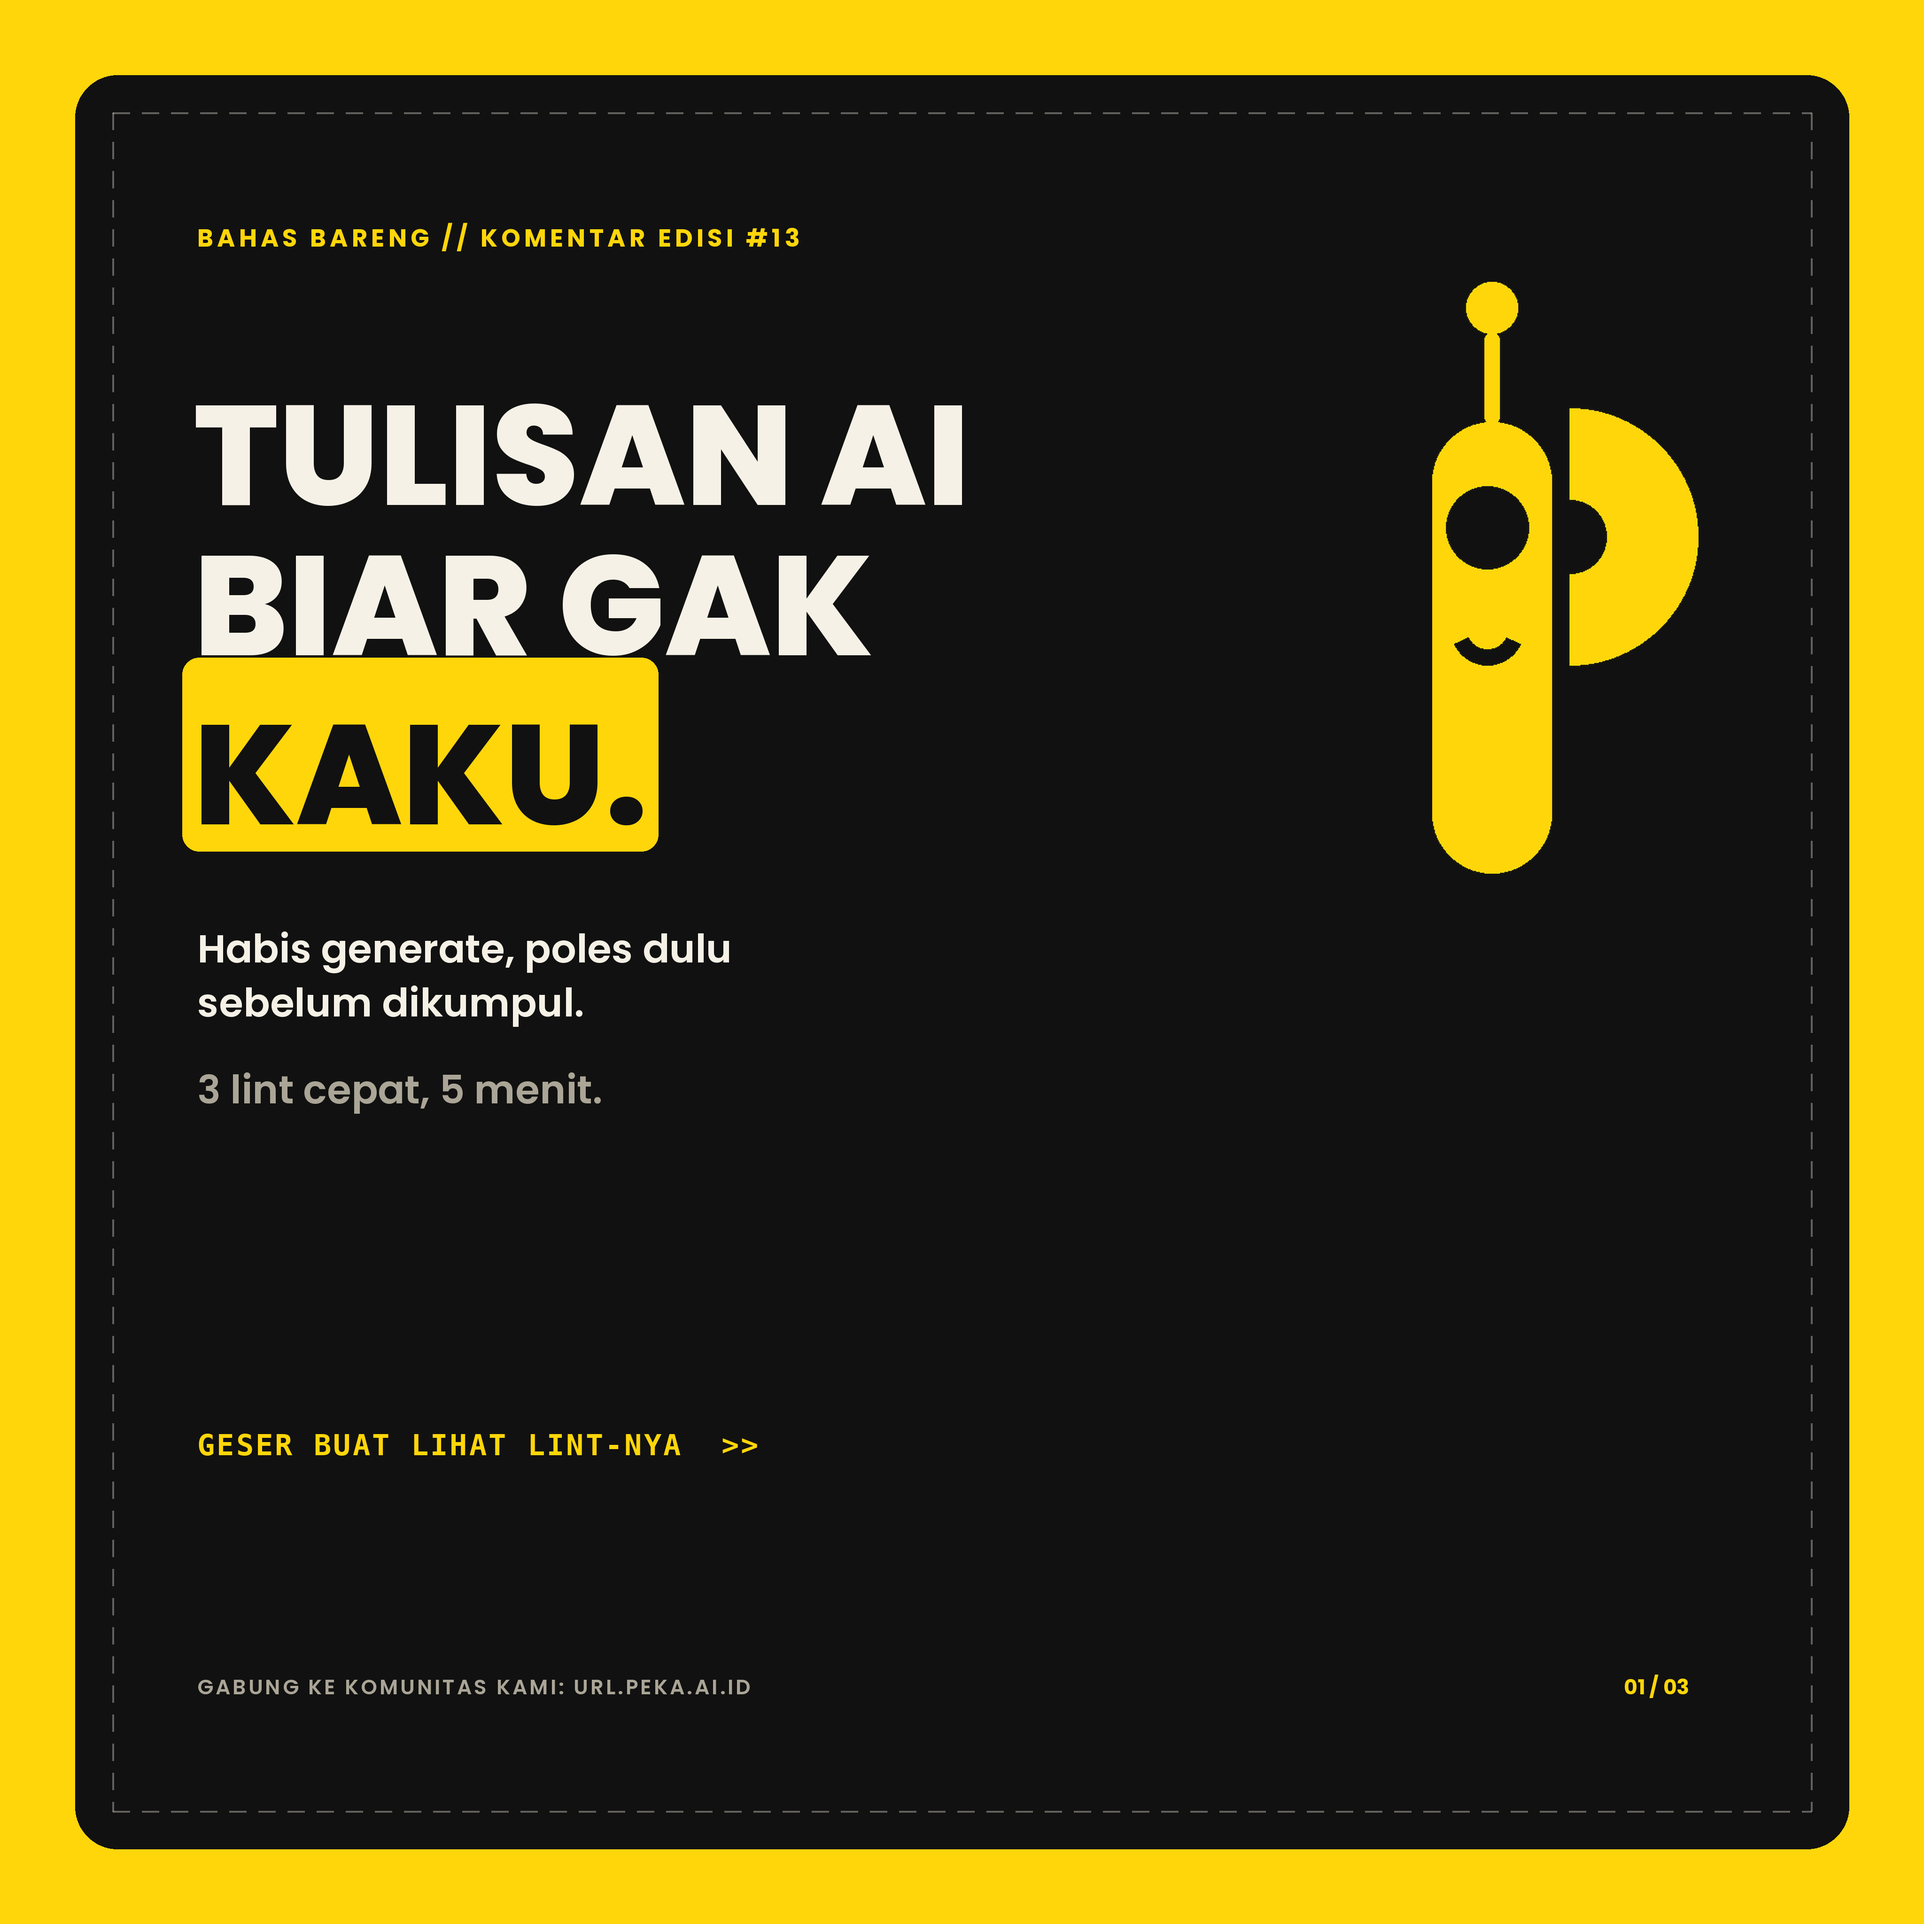
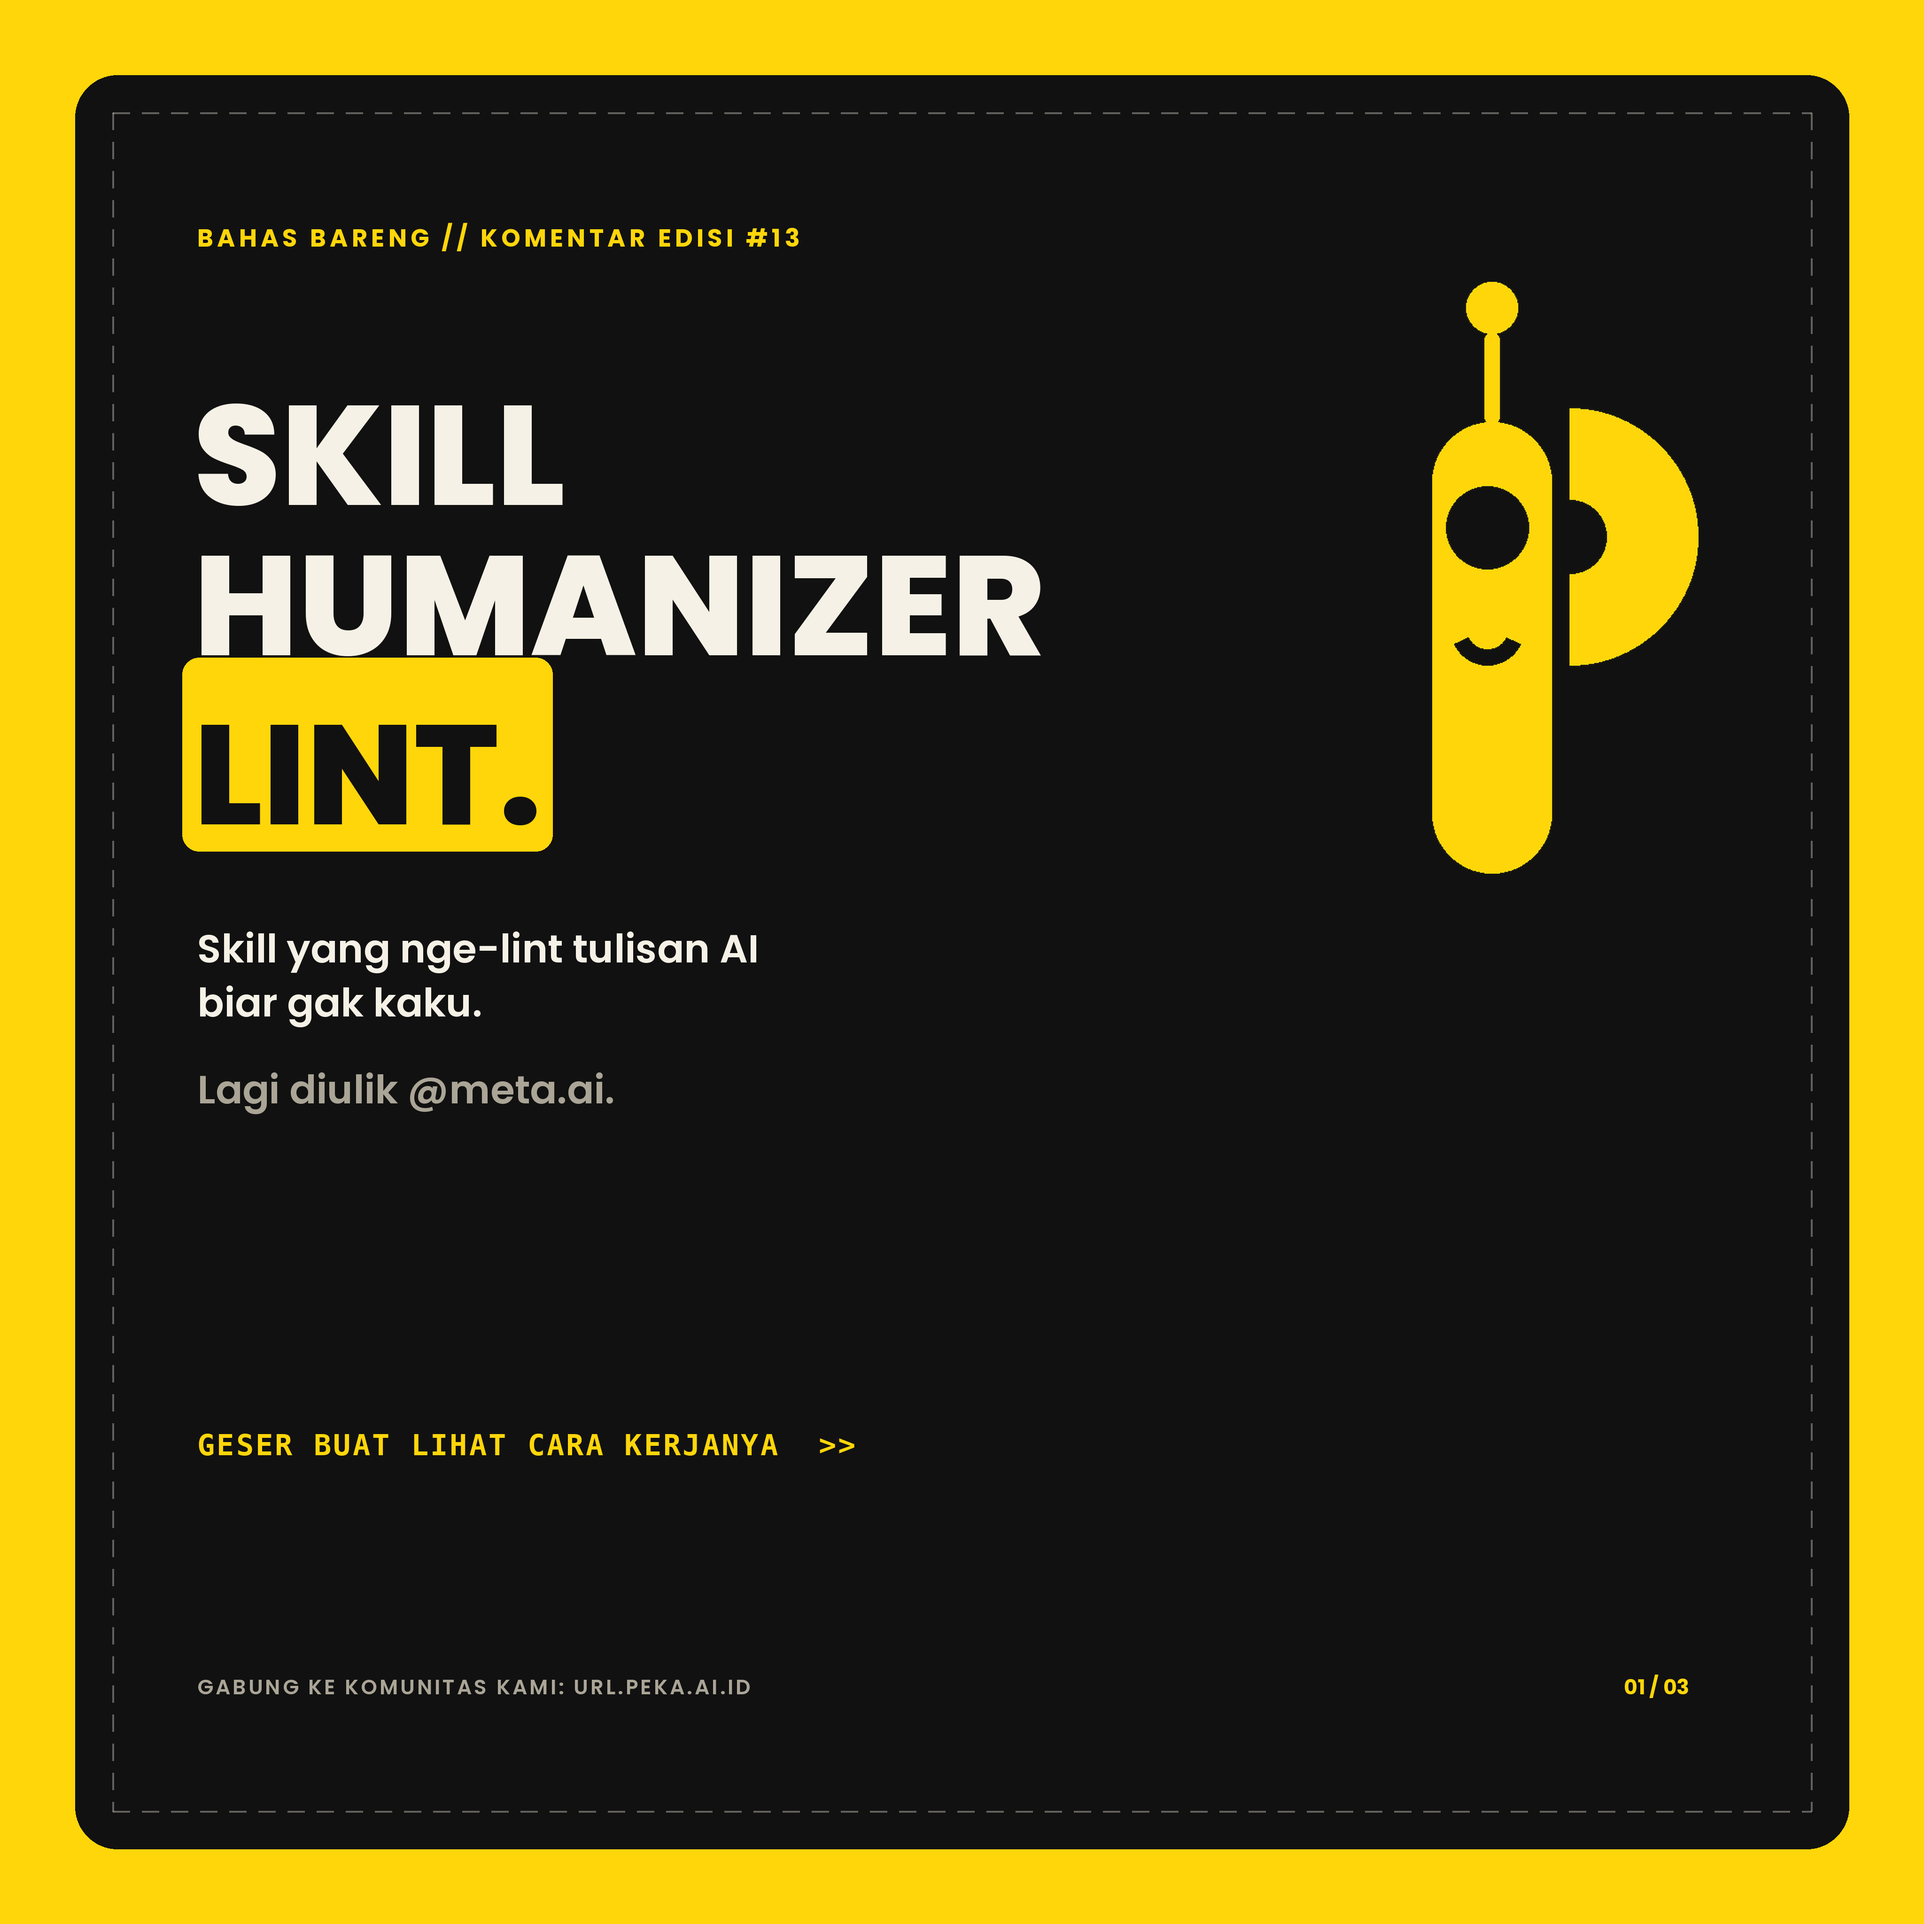
Auto sync 2026-11-04 06:22

Changed region(s): [[0.0938, 0.1875, 0.5625, 0.5312], [0.0938, 0.5625, 0.3125, 0.5938]]

diff --git a/bahas/2026-11-04/bahas_slides.py b/bahas/2026-11-04/bahas_slides.py
@@ -1,8 +1,12 @@
-"""Bahas-bersama carousel: humanizer-lint discussion from the Prompt #13
+"""Bahas-bersama carousel: humanizer-lint SKILL discussion from the Prompt #13
 comment thread (@yanstd888 + @meta.ai). Peka black/yellow design language,
 same card/frame/footer helpers as the katalog template. 3 slides 4096x4096.
-Framing is the honest one: polishing is editing, not disguising. No link
-in any text; the community URL lives only in the footer line.
+
+The thread is about a SKILL (an agent skill repo file), not generic writing
+tips: the carousel explains what a skill is, how a lint skill works, and the
+honest-use boundary. No link in any text; the community URL lives only in
+the footer line. Nothing is claimed about the skill being public: the
+comment says it is still being tinkered with.
 """
 import os
 
@@ -100,10 +104,9 @@ mascot = mascot.resize((int(mh2 * mw / mh), mh2), Image.LANCZOS)
 img.paste(mascot, (W - M - mascot.width - 60, 600), mascot)
 
 f_h = ImageFont.truetype(FX, 300)
-d.text((M - 8, 760), "TULISAN AI", font=f_h, fill=CREAM)
-d.text((M - 8, 1080), "BIAR GAK", font=f_h, fill=CREAM)
-t2 = "KAKU."
-d.text((M - 8, 1440), "", font=f_h, fill=CREAM)
+d.text((M - 8, 760), "SKILL", font=f_h, fill=CREAM)
+d.text((M - 8, 1080), "HUMANIZER", font=f_h, fill=CREAM)
+t2 = "LINT."
 hl_w = d.textlength(t2, font=f_h)
 d.rounded_rectangle([M - 8 - 24, 1440 - 40,
                      M - 8 + hl_w + 24, 1440 + 372],
@@ -111,28 +114,28 @@ d.rounded_rectangle([M - 8 - 24, 1440 - 40,
 d.text((M - 8, 1440), t2, font=f_h, fill=BLACK)
 
 f_sub = ImageFont.truetype(FS, 84)
-d.text((M, 1960), "Habis generate, poles dulu", font=f_sub, fill=CREAM)
-d.text((M, 2075), "sebelum dikumpul.", font=f_sub, fill=CREAM)
-d.text((M, 2260), "3 lint cepat, 5 menit.", font=f_sub, fill=MUTED)
+d.text((M, 1960), "Skill yang nge-lint tulisan AI", font=f_sub, fill=CREAM)
+d.text((M, 2075), "biar gak kaku.", font=f_sub, fill=CREAM)
+d.text((M, 2260), "Lagi diulik @meta.ai.", font=f_sub, fill=MUTED)
 
 f_geser = ImageFont.truetype(FM, 62)
-tracked(d, "GESER BUAT LIHAT LINT-NYA  >>", f_geser, YELLOW, M, 3040, 4)
+tracked(d, "GESER BUAT LIHAT CARA KERJANYA  >>", f_geser, YELLOW, M, 3040, 4)
 
 footer(d, 1, 3)
 img.save(f"{OUT}/bahas-01.png")
 print("saved slide 1")
 
-# ---------------- slide 2: 3 lint ----------------
+# ---------------- slide 2: what a skill is + how lint works ----------------
 img, d = base()
-header_row(d, "3 LINT CEPAT")
+header_row(d, "SKILL ITU APA, LINT-NYA GIMANA")
 
 blocks = [
-    ("01  DIKSI",
-     "Ganti kata yang tidak pernah kamu ucapkan sehari-hari."),
-    ("02  KALIMAT",
-     "Pecah kalimat panjang. Variasikan pendek dan panjang."),
-    ("03  NADA",
-     "Baca keras-keras. Kalau terdengar robot, tulis ulang."),
+    ("01  FILE",
+     "Satu file SKILL.md: instruksi siap pakai buat AI agent."),
+    ("02  PANGGIL",
+     "Diinstall sekali, dipanggil pakai slash command."),
+    ("03  LINT",
+     "Cek pola tulisan AI, tandai, kamu yang benerin."),
 ]
 f_sec = ImageFont.truetype(FS, 88)
 f_item = ImageFont.truetype(FS, 104)
@@ -157,12 +160,12 @@ img, d = base()
 header_row(d, "BATAS JUJURNYA")
 
 f_big = ImageFont.truetype(FX, 210)
-d.text((M - 8, 800), "Poles itu edit,", font=f_big, fill=CREAM)
+d.text((M - 8, 800), "Lint itu nunjukin,", font=f_big, fill=CREAM)
 d.text((M - 8, 1040), "bukan nyamar.", font=f_big, fill=CREAM)
 
 f_body = ImageFont.truetype(FS, 92)
-body = ("Intinya tetap tulisanmu. AI bantu kerangka, "
-        "kamu yang mikir isinya.")
+body = ("Fakta tetap, yang berubah cuma bahasanya. "
+        "Bukan tombol lolos detektor.")
 y = 1520
 for line in wrap_lines(d, body, f_body, max_w):
     d.text((M, y), line, font=f_body, fill=CREAM)
